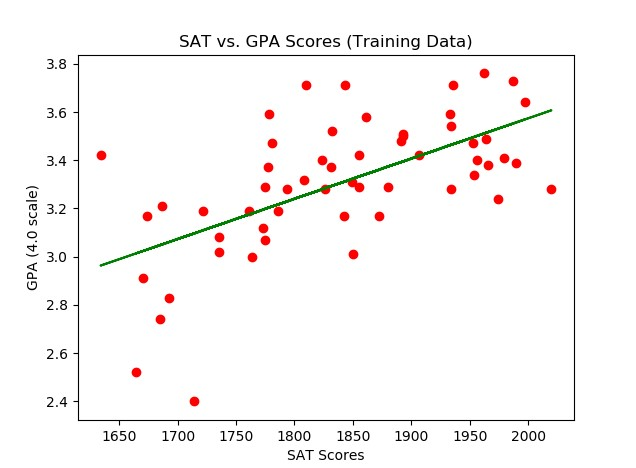
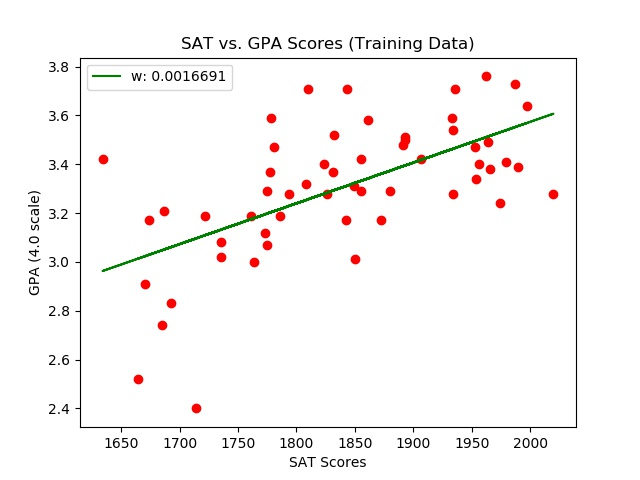
added weights on the graphs

diff --git a/regression.py b/regression.py
@@ -24,6 +24,7 @@ plt.xlabel('SAT Scores')
 plt.ylabel('GPA (4.0 scale)')
 plt.title('SAT vs. GPA Scores (Training Data)')
 plt.legend()
+plt.savefig("training.jpg")
 plt.show()
 
 #Plot the test data with regression line
@@ -33,6 +34,7 @@ plt.xlabel('SAT Scores')
 plt.ylabel('GPA (4.0 scale)')
 plt.title('SAT vs. GPA Scores (Testing Data)')
 plt.legend()
+plt.savefig("testing.jpg")
 plt.show()
 
 #Predict GPA points based on inputted SAT scores
